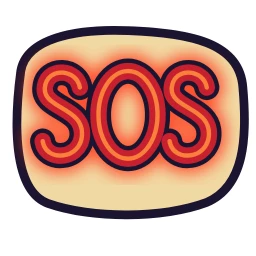
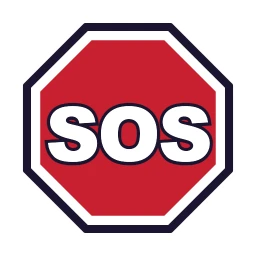
SOS nebezpečenstvo kolo 2: 2 dvere (týranie, príroda s otravou), pilulky týranie/zápasy/množiareň/iné, čísla bez farby, červené Označiť miesto, telefón vždy, plagát po odoslaní, SOS ako značka STOP

diff --git a/src/components/pack/sos/danger/txt/reportTexts.ts b/src/components/pack/sos/danger/txt/reportTexts.ts
@@ -8,7 +8,7 @@ export const DANGER_REPORT_TEXTS = {
   // ── rozcestník ───────────────────────────────────────────────────────────
   'pack.sos.danger.hub.title': T('What is happening?', 'Čo sa deje?', 'Co se děje?'),
   'pack.sos.danger.hub.abuse': T('Cruelty', 'Týranie', 'Týrání'),
-  'pack.sos.danger.hub.abuse.sub': T('Beating, chain, hunger, neglect', 'Bitie, reťaz, hlad, zanedbanie', 'Bití, řetěz, hlad, zanedbání'),
+  'pack.sos.danger.hub.abuse.sub': T('Cruelty, dog fights, puppy mills and more', 'Týranie, zápasy psov, množiarne a ďalšie', 'Týrání, zápasy psů, množírny a další'),
   'pack.sos.danger.hub.poison': T('Poison and traps', 'Otrava a nástrahy', 'Otrava a nástrahy'),
   'pack.sos.danger.hub.poison.sub': T('Poison, bait, nails, glass, traps', 'Jed, návnady, klince, sklo, pasce', 'Jed, návnady, hřebíky, sklo, pasti'),
   'pack.sos.danger.hub.nature': T('Nature', 'Príroda', 'Příroda'),

diff --git a/src/i18n/locales/cs.ts b/src/i18n/locales/cs.ts
@@ -8165,7 +8165,7 @@ export const cs: Partial<Dict> = {
   // ⟦pack.sos⟧ generované (scripts/gen-sos-i18n.mjs) z components/pack/sos/sosTexts.ts, needituj ručne
   "pack.sos.danger.hub.title": "Co se děje?",
   "pack.sos.danger.hub.abuse": "Týrání",
-  "pack.sos.danger.hub.abuse.sub": "Bití, řetěz, hlad, zanedbání",
+  "pack.sos.danger.hub.abuse.sub": "Týrání, zápasy psů, množírny a další",
   "pack.sos.danger.hub.poison": "Otrava a nástrahy",
   "pack.sos.danger.hub.poison.sub": "Jed, návnady, hřebíky, sklo, pasti",
   "pack.sos.danger.hub.nature": "Příroda",

diff --git a/src/i18n/locales/sk.ts b/src/i18n/locales/sk.ts
@@ -8201,7 +8201,7 @@ export const sk: Partial<Dict> = {
   // ⟦pack.sos⟧ generované (scripts/gen-sos-i18n.mjs) z components/pack/sos/sosTexts.ts, needituj ručne
   "pack.sos.danger.hub.title": "Čo sa deje?",
   "pack.sos.danger.hub.abuse": "Týranie",
-  "pack.sos.danger.hub.abuse.sub": "Bitie, reťaz, hlad, zanedbanie",
+  "pack.sos.danger.hub.abuse.sub": "Týranie, zápasy psov, množiarne a ďalšie",
   "pack.sos.danger.hub.poison": "Otrava a nástrahy",
   "pack.sos.danger.hub.poison.sub": "Jed, návnady, klince, sklo, pasce",
   "pack.sos.danger.hub.nature": "Príroda",

diff --git a/src/i18n/locales/en.ts b/src/i18n/locales/en.ts
@@ -8508,7 +8508,7 @@ export const en = {
   // ⟦pack.sos⟧ generované (scripts/gen-sos-i18n.mjs) z components/pack/sos/sosTexts.ts, needituj ručne
   "pack.sos.danger.hub.title": "What is happening?",
   "pack.sos.danger.hub.abuse": "Cruelty",
-  "pack.sos.danger.hub.abuse.sub": "Beating, chain, hunger, neglect",
+  "pack.sos.danger.hub.abuse.sub": "Cruelty, dog fights, puppy mills and more",
   "pack.sos.danger.hub.poison": "Poison and traps",
   "pack.sos.danger.hub.poison.sub": "Poison, bait, nails, glass, traps",
   "pack.sos.danger.hub.nature": "Nature",
